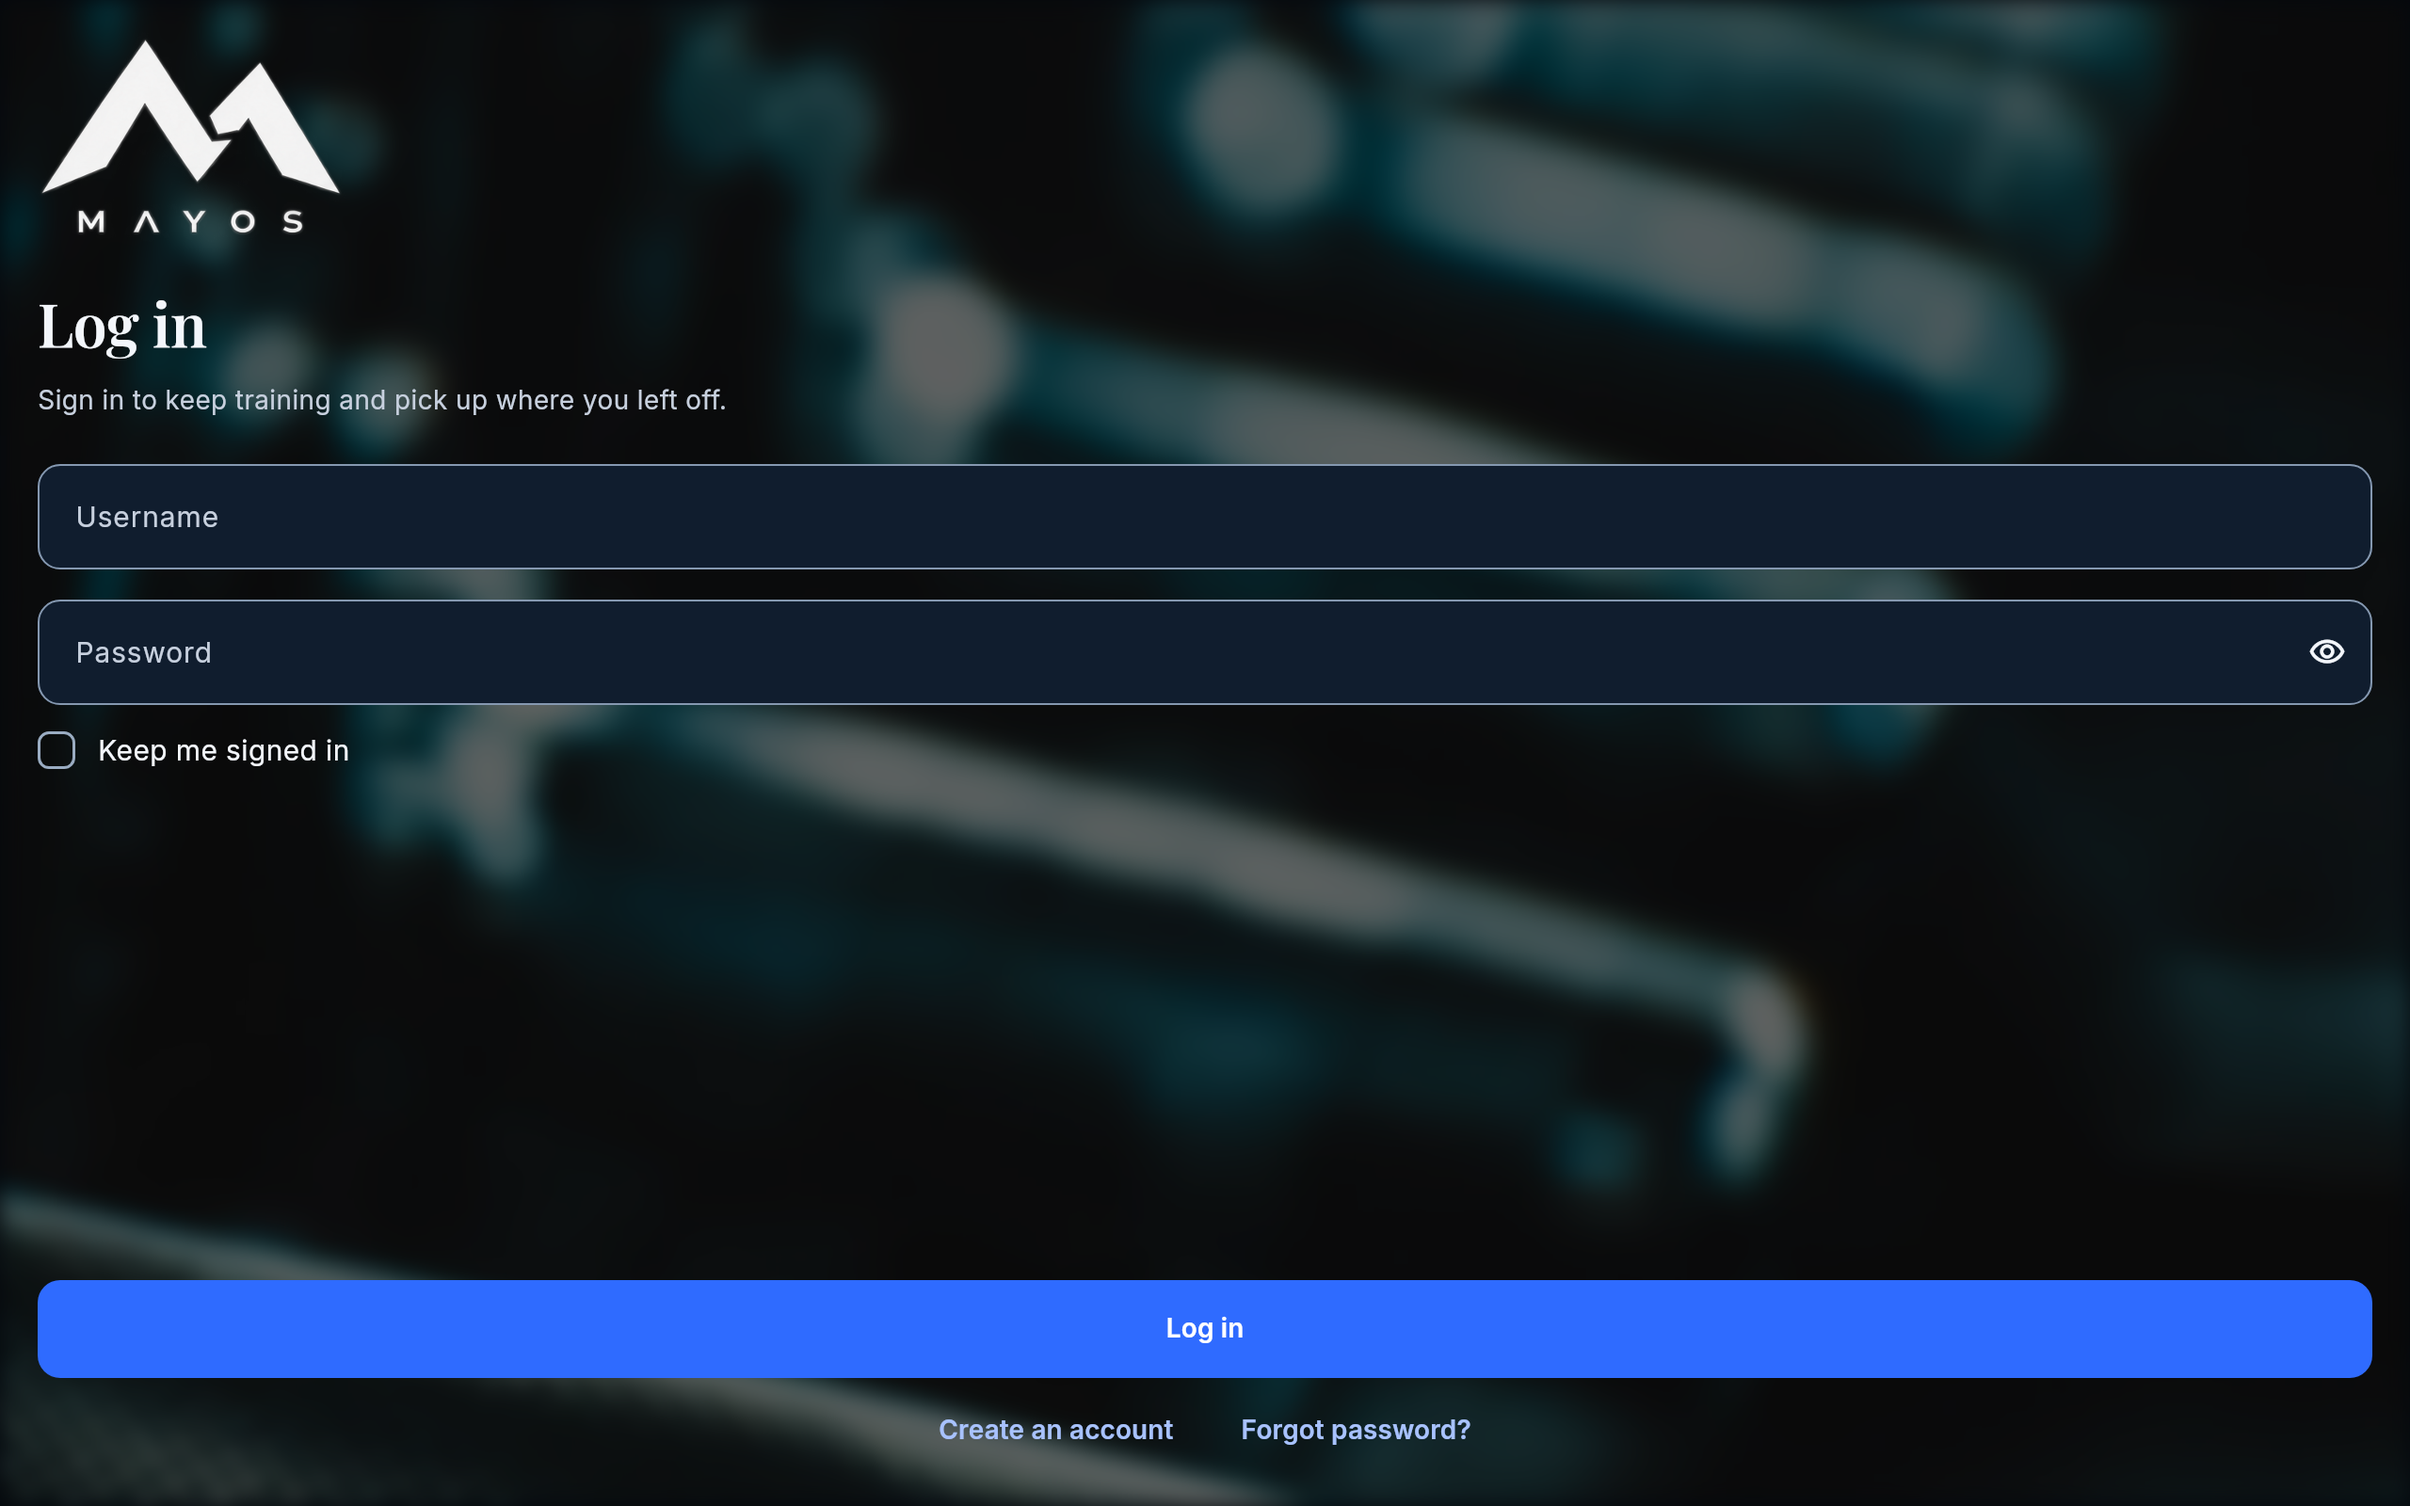
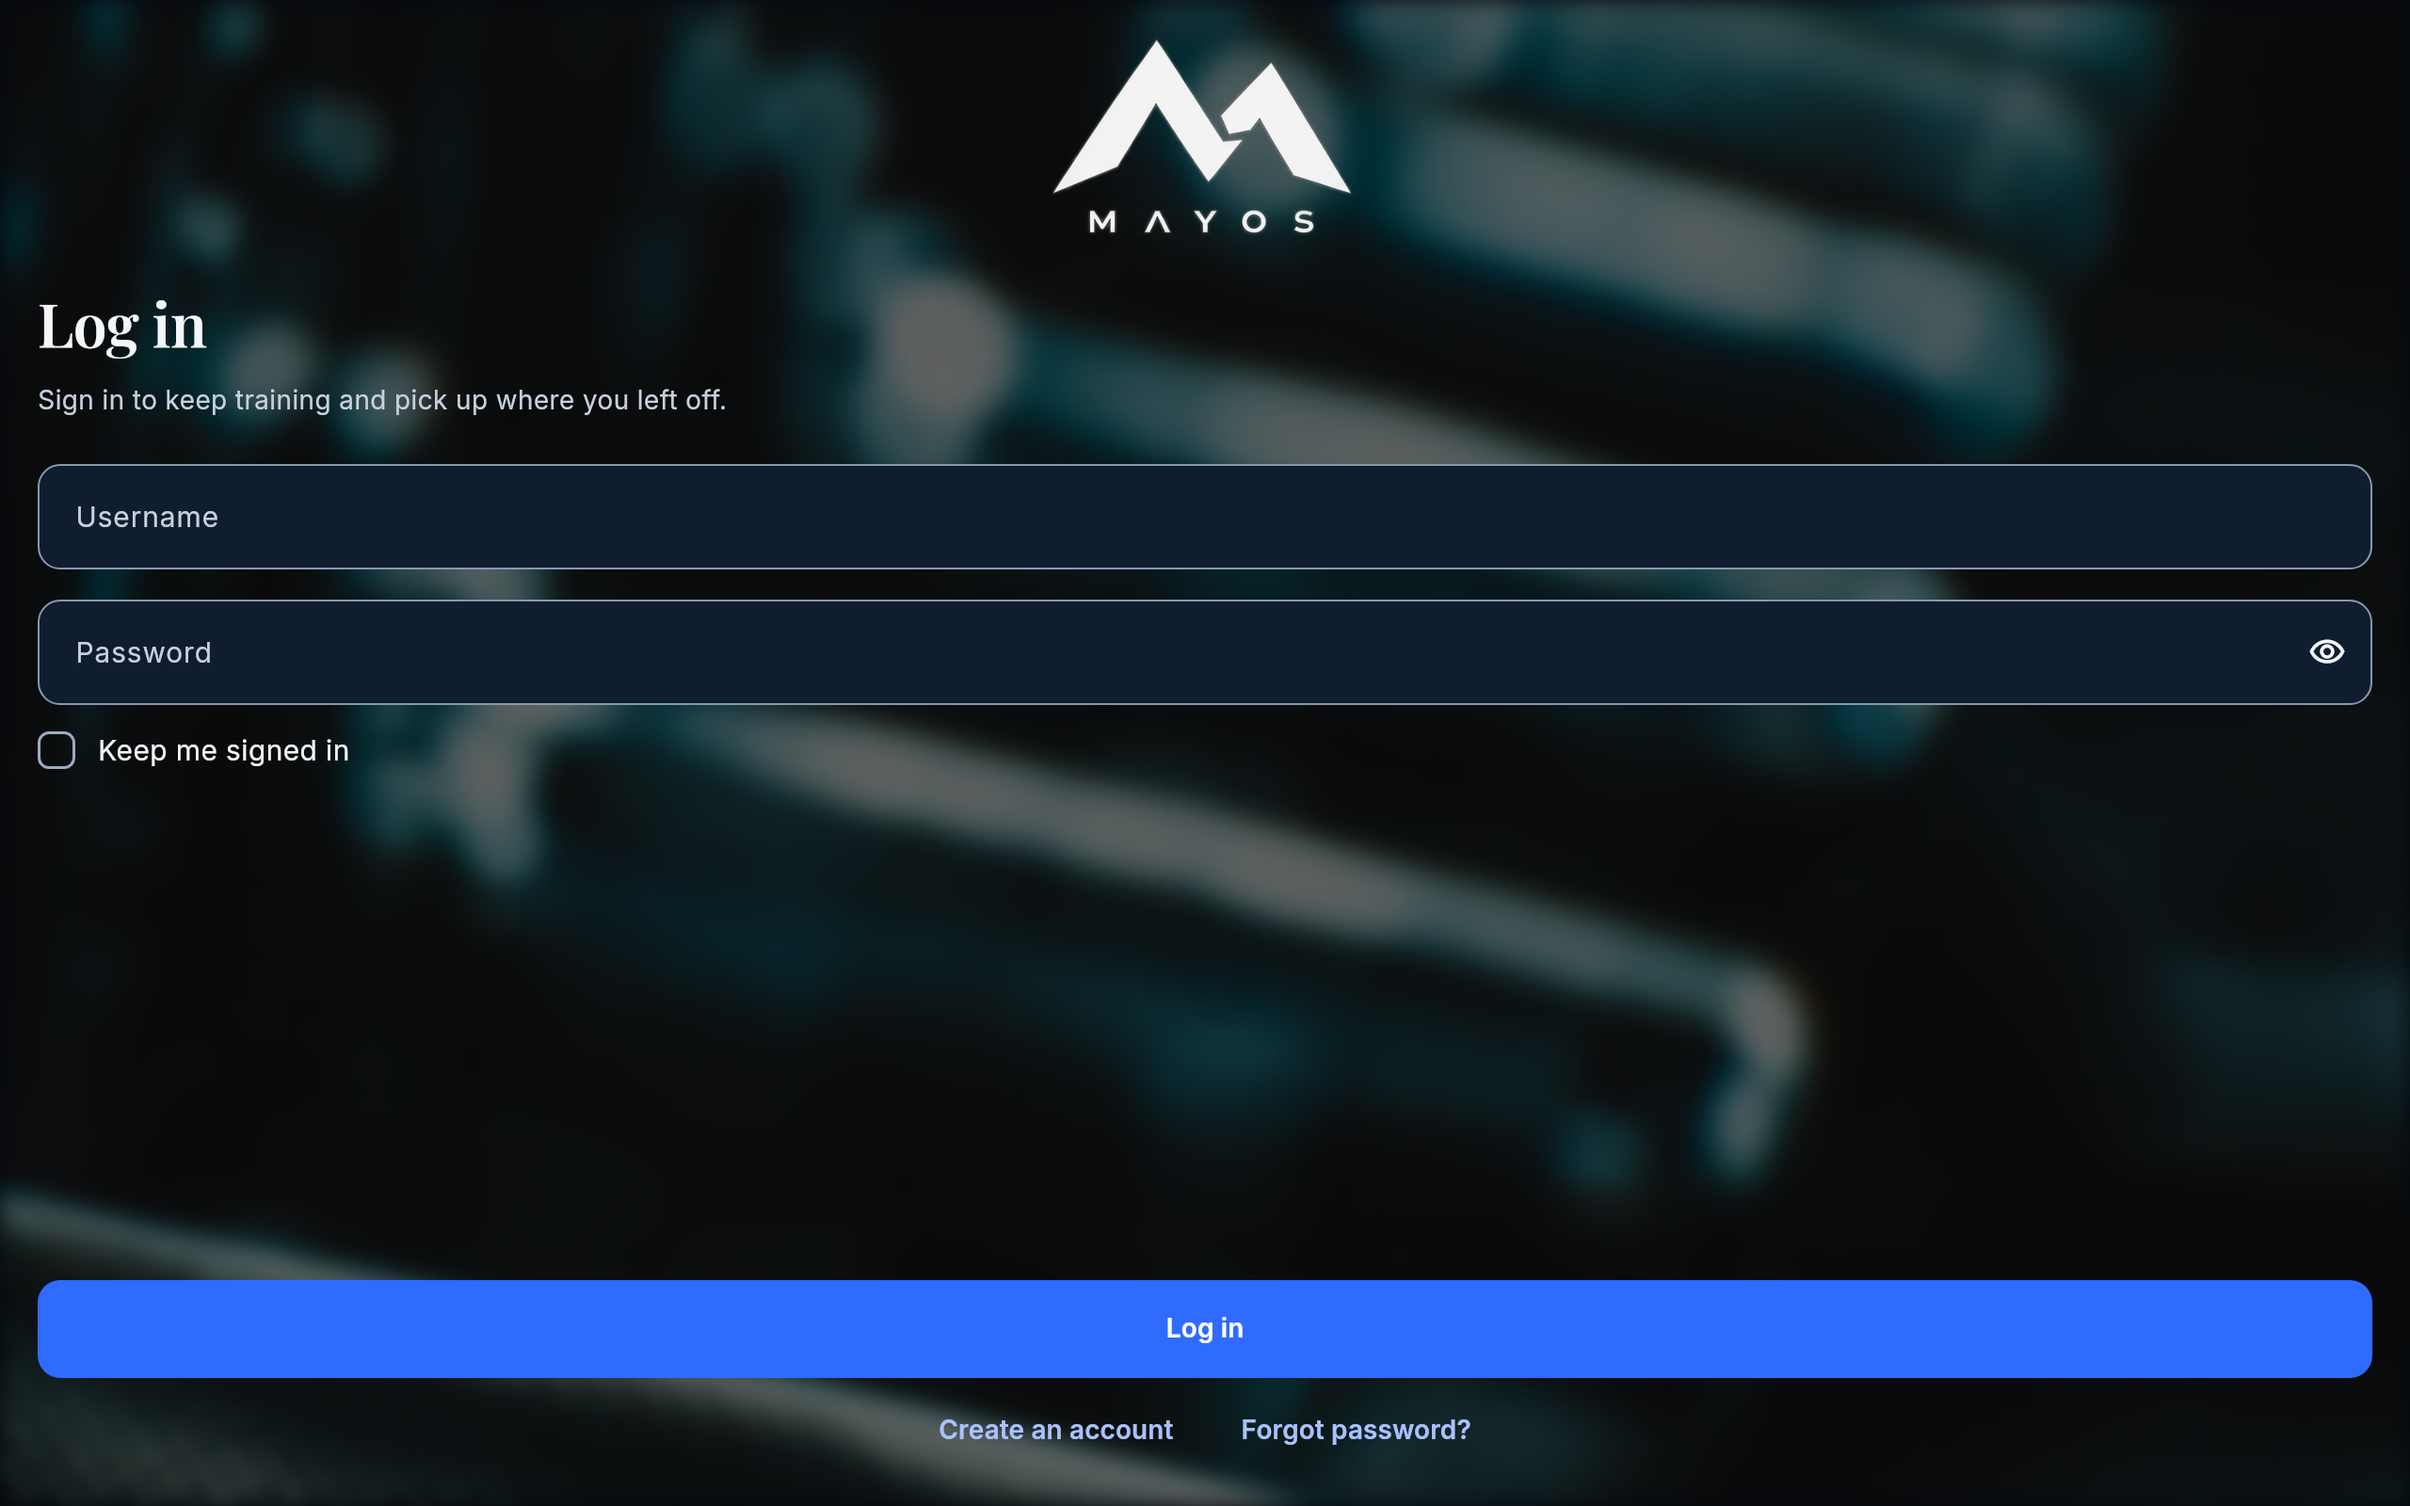
feat: centre the brand lockup on the sign-in screens

Changed region(s): [[0.4375, 0.0312, 0.5625, 0.1562], [0.0, 0.0312, 0.1562, 0.1562]]

diff --git a/mobile/test/auth_screens_test.dart b/mobile/test/auth_screens_test.dart
@@ -10,6 +10,7 @@ import 'package:mayos_mobile/src/core/chat_storage.dart';
 import 'package:mayos_mobile/src/core/theme/mayos_theme.dart';
 import 'package:mayos_mobile/src/core/theme/theme_mode_store.dart';
 import 'package:mayos_mobile/src/core/token_store.dart';
+import 'package:mayos_mobile/src/core/ui/mayos_logo.dart';
 import 'package:mayos_mobile/src/features/player/auth/auth_controller.dart';
 import 'package:mayos_mobile/src/features/player/auth/auth_widgets.dart';
 import 'package:mayos_mobile/src/providers.dart';
@@ -306,6 +307,31 @@ void main() {
       reason: 'the brand lockup keeps its MAYOS semantics label',
     );
   });
+
+  for (final String screen in <String>['login', 'register']) {
+    testWidgets('$screen brand lockup is horizontally centred at 360x640',
+        (WidgetTester tester) async {
+      final FakeMayosApi fake = _loginFake();
+      await _pumpAuth(tester, fake, size: const Size(360, 640));
+      if (screen == 'register') {
+        await tester.tap(find.text('Create an account'));
+        await _pumpUntilFound(tester, find.text('Create account'));
+      }
+      // Let the route transition settle so only the destination AuthScaffold
+      // remains mounted and it is not measured mid-slide.
+      for (int i = 0; i < 10; i++) {
+        await tester.pump(const Duration(milliseconds: 100));
+      }
+      final double screenCentre = tester.view.physicalSize.width /
+          tester.view.devicePixelRatio /
+          2;
+      final Finder hero = find.descendant(
+        of: find.byType(AuthScaffold),
+        matching: find.byType(MayosBrandLockup),
+      );
+      expect(tester.getCenter(hero).dx, closeTo(screenCentre, 0.5));
+    });
+  }
 
   testWidgets(
       'login keeps both fields and the CTA visible with the keyboard open',

diff --git a/mobile/lib/src/features/player/auth/auth_widgets.dart b/mobile/lib/src/features/player/auth/auth_widgets.dart
@@ -86,11 +86,13 @@ class AuthScaffold extends StatelessWidget {
                         crossAxisAlignment: CrossAxisAlignment.start,
                         children: <Widget>[
                           if (showHero) ...<Widget>[
-                            MayosBrandLockup(
-                              height: logoHeight,
-                              variant: wallpaper
-                                  ? MayosBrandVariant.white
-                                  : MayosBrandVariant.auto,
+                            Center(
+                              child: MayosBrandLockup(
+                                height: logoHeight,
+                                variant: wallpaper
+                                    ? MayosBrandVariant.white
+                                    : MayosBrandVariant.auto,
+                              ),
                             ),
                             const SizedBox(height: MayosSpacing.xl),
                           ],

diff --git a/mobile/DESIGN.md b/mobile/DESIGN.md
@@ -68,8 +68,8 @@ small transparent pad, never edit pixels inside the mark or wordmark.
   indicator sit below the centre without moving the lockup off it.
 - **Auth hero.** The logged-out sign-in screens (log in, register, forgot
   password, reset password) also share the wallpaper and force the **white**
-  lockup. The recovery-email gate stays on the plain canvas and keeps the
-  theme-following `auto` lockup.
+  lockup, centred horizontally on the screen. The recovery-email gate stays on
+  the plain canvas and keeps the theme-following `auto` lockup.
 - **Header / small placements.** The vertical lockup's baked wordmark is
   illegible at ~24dp, so the header uses the documented **clean text
   treatment**: `MayosBrandMark` (mark-only crop, white on dark / black on
